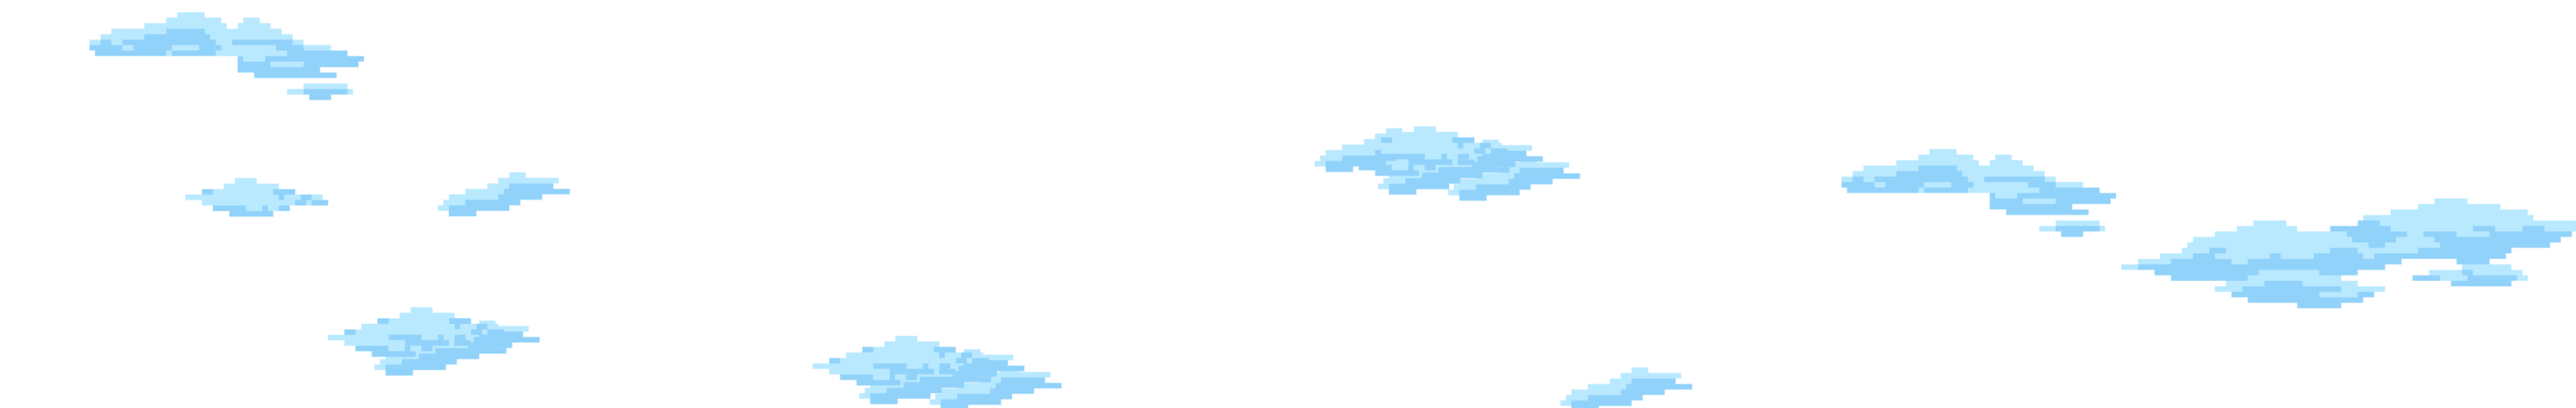
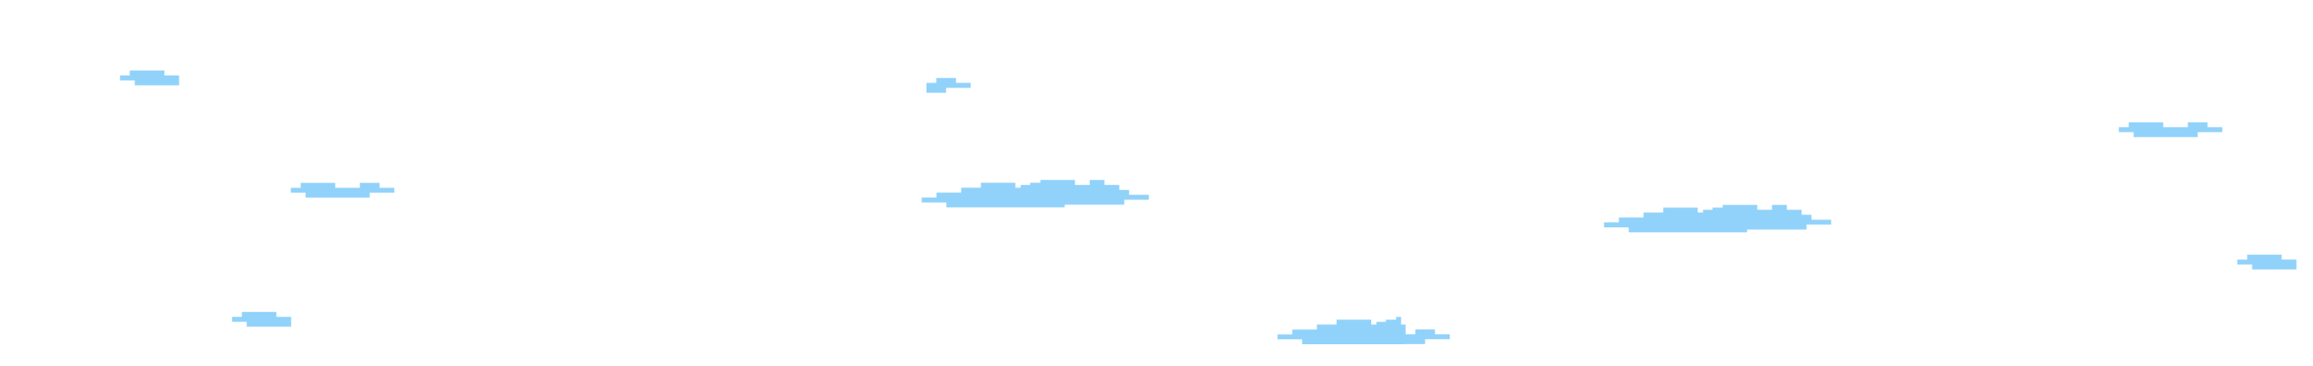
fix:修改背景樣式

diff --git a/src/App.tsx b/src/App.tsx
@@ -168,31 +168,31 @@ function App() {
     {
       id: "building1",
       name: "trend",
-      color: "red",
+      // color: "red",
       path: "M96.8792 511.473L97.8621 510.892V509.751V330.266L108.32 325.786L109.532 325.267V323.948V314.266L163.261 283.006L171.375 288.905L172.501 289.724L173.66 288.951L185.66 280.955H199.226H224.496L271.414 310.063V326.447V327.593L272.403 328.173L319.761 355.922V518.083V521.456L322.721 519.837L365.771 496.292L370.61 499.919V552.702L355.84 560.472L354.772 561.034V562.242V589.35L236.849 649.921L79.5234 548.653V521.724L96.8792 511.473Z",
     },
     {
       id: "building2",
       name: "asus",
-      color: "red",
+      // color: "red",
       path: "M637.687 317.282L375.944 474.756L322.595 441.428V355.609L273.414 325.614V159.807L348.436 116.481L350.937 80.6537L435.128 30.6619L464.303 48.159L500.98 23.1631L517.652 36.4942L525.154 30.6619L581.004 63.9897V105.65L637.687 136.478V308.116V317.282Z",
     },
     {
       id: "building3",
       name: "side_project",
-      color: "red",
+      // color: "red",
       path: "M644.355 56.4914V168.973L743.551 223.964V132.312L927.772 231.463V126.48L710.208 4V97.3181L644.355 56.4914Z",
     },
     {
       id: "building4",
       name: "stockfeel",
-      color: "red",
+      // color: "red",
       path: "M428.457 770.541L565.164 849.695L631.85 805.535L644.353 813.034L677.696 792.204V558.909L653.523 546.411V535.58L661.025 531.414L599.34 493.92V479.755L579.334 468.924L540.99 489.754V506.418L530.987 520.582L492.642 540.579V721.383L469.302 735.547V577.239L428.457 599.736V770.541Z",
     },
     {
       id: "building5",
       name: "tolka",
-      color: "red",
+      // color: "red",
       path: "M779.395 673.89L854.416 714.717L937.774 659.726L1042.8 721.383L1112.83 678.056V493.92L1098.65 485.588V440.595L984.454 375.606V418.099L944.443 393.103L857.751 443.095L779.395 489.754V673.89Z",
     },
   ];
@@ -303,7 +303,7 @@ function App() {
             key={building.id}
             d={building.path}
             fill="transparent"
-            stroke={building.color}
+            // stroke={building.color}
             strokeWidth="2"
             onClick={() =>
               handleBuildingClick({ id: building.id, name: building.name })
@@ -320,9 +320,13 @@ function App() {
         className="w-screen h-screen fixed overflow-hidden"
         onWheel={handleOnWheel}
       >
+        <div className="w-1/2 relative"></div>
+        <div className="w-1/2 relative"></div>
         <CityMap />
         <div className="top_cloud"></div>
-        <div className="top_cloud cloud"></div>
+        <div className="top_cloud top_cloud2"></div>
+        <div className="middle_cloud"></div>
+        <div className="middle_cloud middle_cloud2"></div>
         <div className="bottom_cloud"></div>
         <div className="bottom_cloud bottom_cloud2"></div>
         <div className="sky_bgc"></div>

diff --git a/src/App.css b/src/App.css
@@ -41,7 +41,7 @@ svg.city {
   z-index: 9;
   position: absolute;
   right: 200px;
-  top: 214px;
+  /* top: 214px; */
   animation: wobble 10s alternate infinite linear;
 }
 
@@ -98,16 +98,29 @@ svg.city {
 }
 
 .top_cloud {
-  height: 485px; /* 高度填滿螢幕 */
-  width: 308px; /* 寬度根據圖片比例自動調整 */
+  height: 435px; /* 高度填滿螢幕 */
+  width: 2748px; /* 寬度根據圖片比例自動調整 */
   background-image: url("./assets/top_cloud.png");
   background-size: auto 100%; /* 背景圖片自動覆蓋容器並保持比例 */
   background-repeat: repeat-x; /* 只在 X 軸重複，實現無縫效果 */
-  animation: move 20s linear infinite; /* 自動開始無限循環動畫 */
+  animation: move 15s linear infinite; /* 自動開始無限循環動畫 */
   position: absolute;
   top: 0;
   left: 0;
-  z-index: 3;
+  z-index: 5;
+}
+
+.middle_cloud {
+  height: 485px; /* 高度填滿螢幕 */
+  width: 3060px; /* 寬度根據圖片比例自動調整 */
+  background-image: url("./assets/middle_cloud.png");
+  background-size: auto 100%; /* 背景圖片自動覆蓋容器並保持比例 */
+  background-repeat: repeat-x; /* 只在 X 軸重複，實現無縫效果 */
+  animation: move 30s linear infinite; /* 自動開始無限循環動畫 */
+  position: absolute;
+  top: 0;
+  left: 0;
+  z-index: 4;
 }
 
 .bottom_cloud {
@@ -116,10 +129,11 @@ svg.city {
   background-image: url("./assets/bottom_cloud.png");
   background-size: auto 100%; /* 背景圖片自動覆蓋容器並保持比例 */
   background-repeat: repeat-x; /* 只在 X 軸重複，實現無縫效果 */
-  animation: move 20s linear infinite; /* 自動開始無限循環動畫 */
+  animation: move2 45s linear infinite; /* 自動開始無限循環動畫 */
+  animation-direction: reverse;
   position: absolute;
   bottom: 0;
-  left: 0;
+  right: 0;
   z-index: 3;
 }
 
@@ -128,11 +142,15 @@ svg.city {
 }
 
 .bottom_cloud2 {
-  left: 3691px;
+  right: 3691px;
 }
 
-.cloud {
-  left: 3059px;
+.middle_cloud2 {
+  left: 3061px;
+}
+
+.top_cloud2 {
+  left: 2749px;
 }
 
 .sky_bgc {
@@ -142,7 +160,7 @@ svg.city {
   background-image: url("./assets/background.png");
   background-size: auto 100%; /* 背景圖片自動覆蓋容器並保持比例 */
   background-repeat: repeat-x; /* 只在 X 軸重複，實現無縫效果 */
-  animation: move 20s linear infinite; /* 自動開始無限循環動畫 */
+  animation: move 60s linear infinite; /* 自動開始無限循環動畫 */
   position: absolute;
   top: 0;
   left: 0;

diff --git a/src/output.css b/src/output.css
@@ -576,6 +576,10 @@ video {
   position: absolute;
 }
 
+.relative {
+  position: relative;
+}
+
 .left-52 {
   left: 13rem;
 }
@@ -606,6 +610,14 @@ video {
 
 .top-\[23px\] {
   top: 23px;
+}
+
+.top-8 {
+  top: 2rem;
+}
+
+.top-12 {
+  top: 3rem;
 }
 
 .z-10 {
@@ -999,7 +1011,7 @@ svg.city {
   z-index: 9;
   position: absolute;
   right: 200px;
-  top: 214px;
+  /* top: 214px; */
   animation: wobble 10s alternate infinite linear;
 }
 
@@ -1062,21 +1074,39 @@ svg.city {
 }
 
 .top_cloud {
-  height: 485px;
+  height: 435px;
   /* 高度填滿螢幕 */
-  width: 308px;
+  width: 2748px;
   /* 寬度根據圖片比例自動調整 */
   background-image: url("./assets/top_cloud.png");
   background-size: auto 100%;
   /* 背景圖片自動覆蓋容器並保持比例 */
   background-repeat: repeat-x;
   /* 只在 X 軸重複，實現無縫效果 */
-  animation: move 20s linear infinite;
+  animation: move 15s linear infinite;
   /* 自動開始無限循環動畫 */
   position: absolute;
   top: 0;
   left: 0;
-  z-index: 3;
+  z-index: 5;
+}
+
+.middle_cloud {
+  height: 485px;
+  /* 高度填滿螢幕 */
+  width: 3060px;
+  /* 寬度根據圖片比例自動調整 */
+  background-image: url("./assets/middle_cloud.png");
+  background-size: auto 100%;
+  /* 背景圖片自動覆蓋容器並保持比例 */
+  background-repeat: repeat-x;
+  /* 只在 X 軸重複，實現無縫效果 */
+  animation: move 30s linear infinite;
+  /* 自動開始無限循環動畫 */
+  position: absolute;
+  top: 0;
+  left: 0;
+  z-index: 4;
 }
 
 .bottom_cloud {
@@ -1089,11 +1119,12 @@ svg.city {
   /* 背景圖片自動覆蓋容器並保持比例 */
   background-repeat: repeat-x;
   /* 只在 X 軸重複，實現無縫效果 */
-  animation: move 20s linear infinite;
+  animation: move2 45s linear infinite;
   /* 自動開始無限循環動畫 */
+  animation-direction: reverse;
   position: absolute;
   bottom: 0;
-  left: 0;
+  right: 0;
   z-index: 3;
 }
 
@@ -1102,11 +1133,15 @@ svg.city {
 }
 
 .bottom_cloud2 {
-  left: 3691px;
+  right: 3691px;
 }
 
-.cloud {
-  left: 3059px;
+.middle_cloud2 {
+  left: 3061px;
+}
+
+.top_cloud2 {
+  left: 2749px;
 }
 
 .sky_bgc {
@@ -1120,7 +1155,7 @@ svg.city {
   /* 背景圖片自動覆蓋容器並保持比例 */
   background-repeat: repeat-x;
   /* 只在 X 軸重複，實現無縫效果 */
-  animation: move 20s linear infinite;
+  animation: move 60s linear infinite;
   /* 自動開始無限循環動畫 */
   position: absolute;
   top: 0;

diff --git a/src/component/modal.tsx b/src/component/modal.tsx
@@ -15,7 +15,7 @@ export const Modal3 = ({ data }: Modal3TypeClass) => {
     <div
       className={`${modalTV({
         withbgc: true,
-      })} px-9 w-[331px] h-[360px] pixel_modal`}
+      })} px-9 w-[331px] h-[360px] pixel_modal z-10`}
     >
       <h1 className="text-3xl mt-10 mb-8">{data.title}</h1>
       <p className="text-base mb-3">{data.desc}</p>
@@ -88,7 +88,7 @@ export const Modal4 = ({ data }: Modal4TypeClass) => {
 
   return (
     <div
-      className={` max-w-[419px] pixel_modal_shadow ${modalTV({
+      className={`max-w-[419px] pixel_modal_shadow top-12 ${modalTV({
         withbgc: false,
       })}`}
       ref={modalRef}
